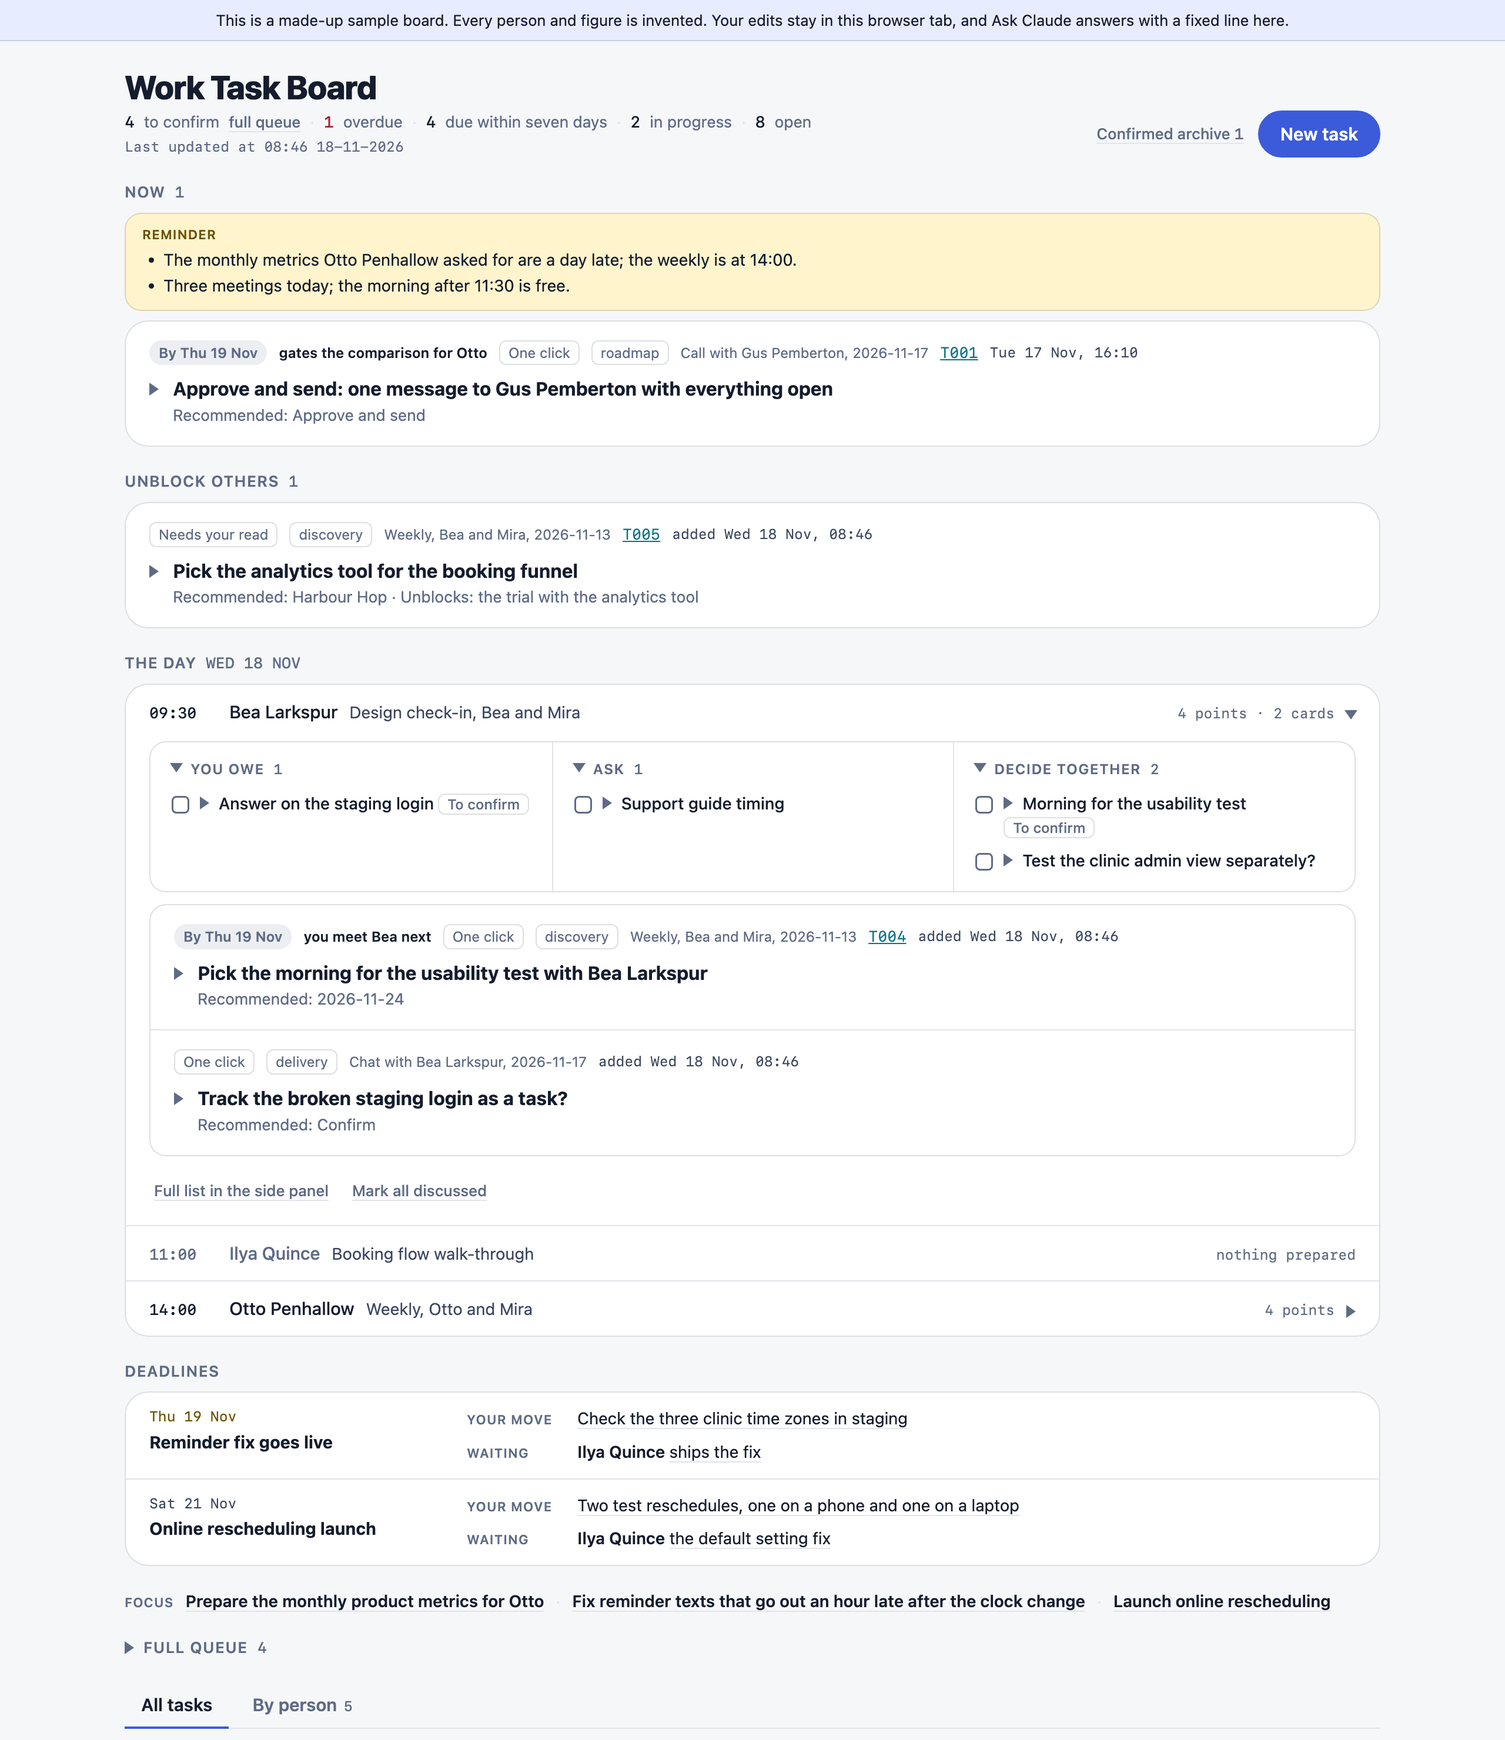
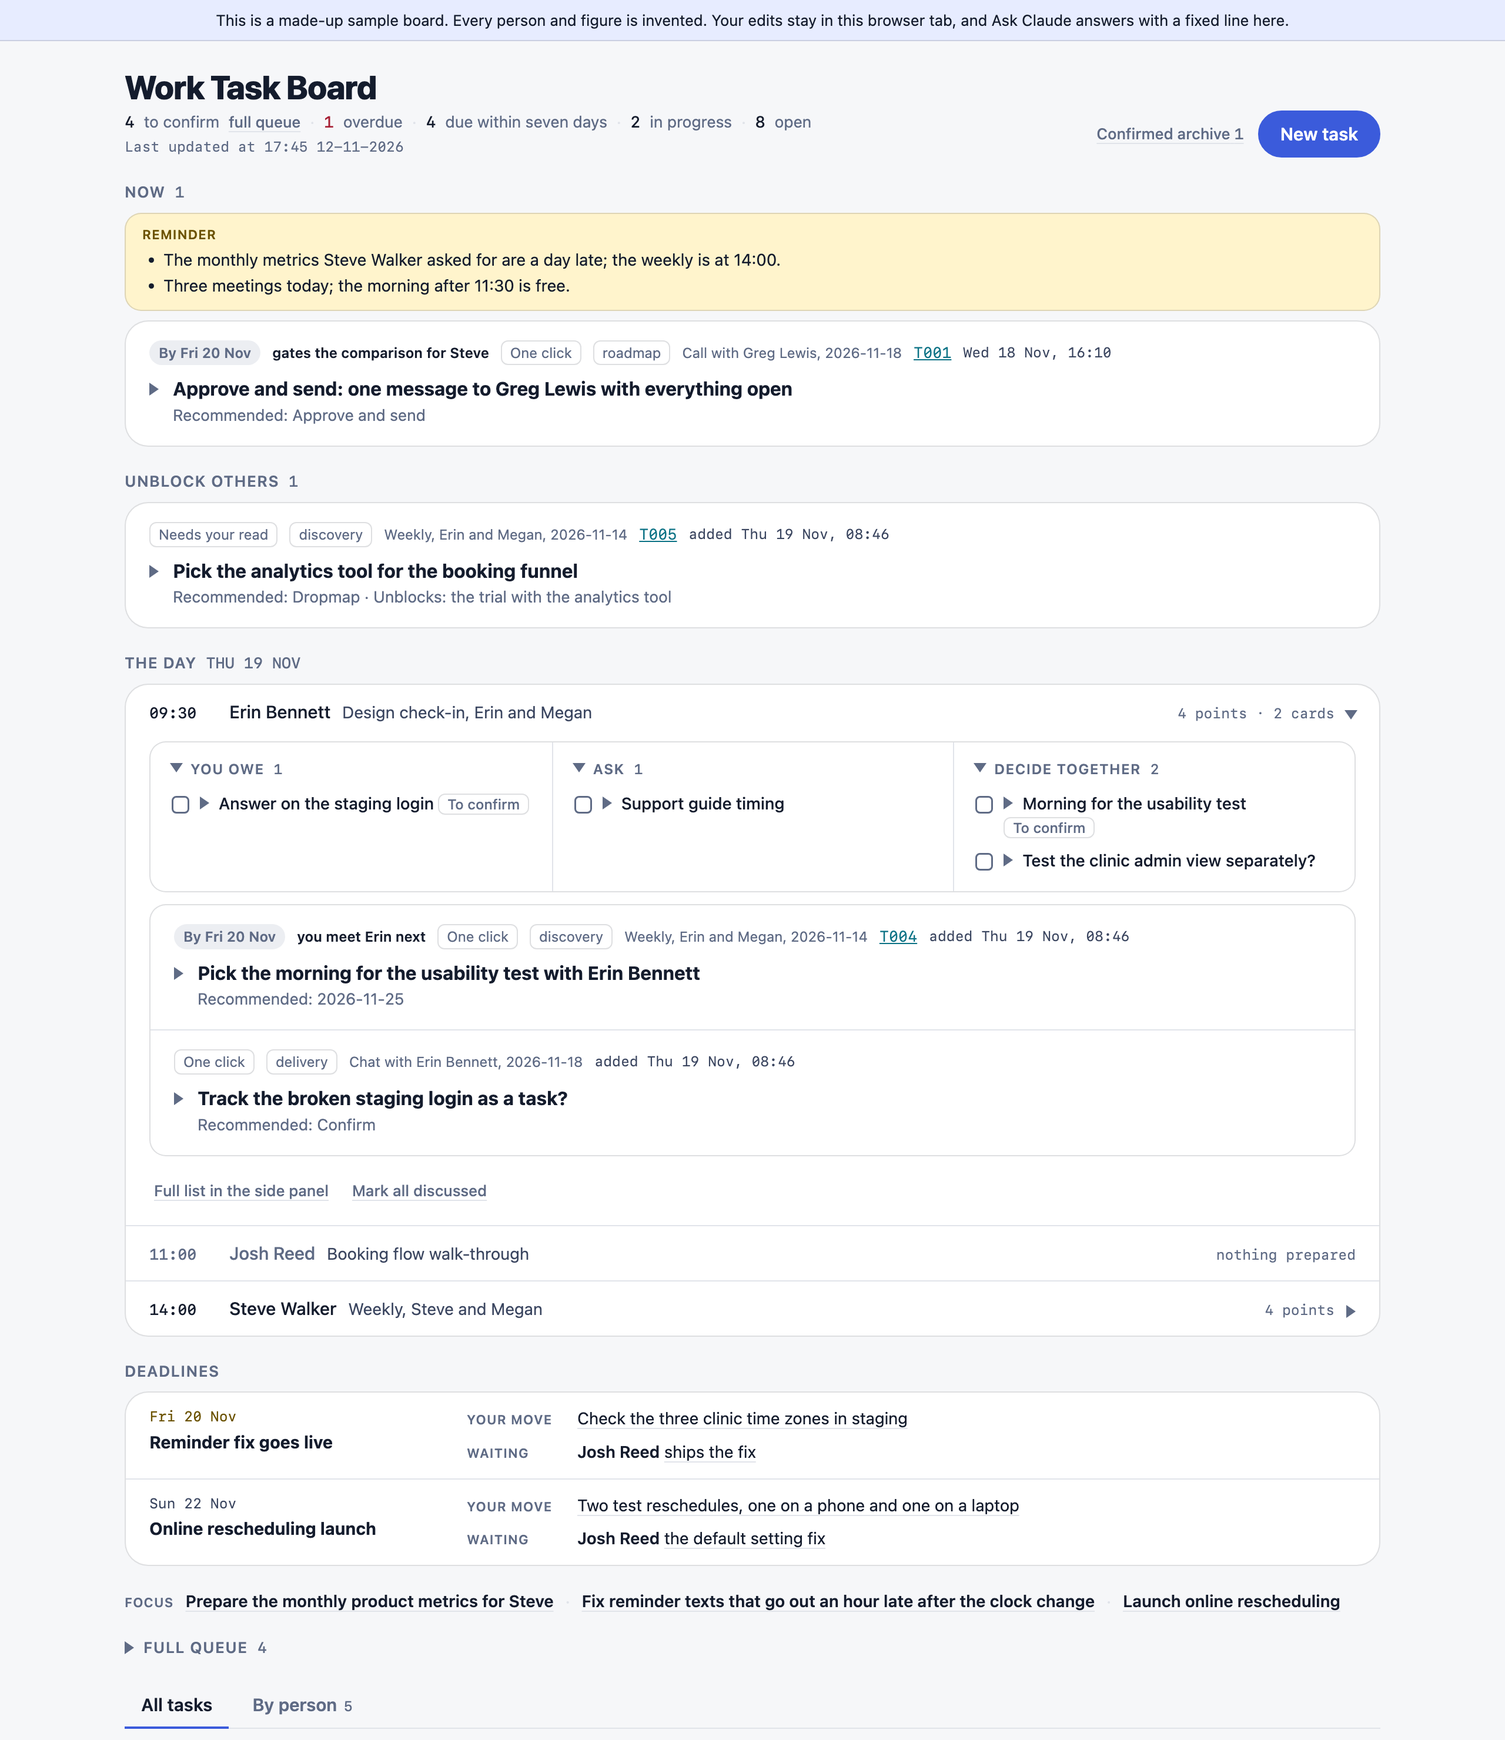
Sample: new names for the people and the tools

diff --git a/tools/preview.py b/tools/preview.py
@@ -120,7 +120,7 @@ if __name__ == "__main__":
             built_for = json.loads((data / "state" / "brief-today.json").read_text())["date"]
         else:
             copy_sample(data)
-        owner = "Mira Tallow"   # the invented owner of the sample
+        owner = "Megan Clark"   # the invented owner of the sample
     elif (KIT / "board.config.json").exists():
         data = KIT
     else:

diff --git a/sample/tasks.md b/sample/tasks.md
@@ -6,13 +6,13 @@
 
 | ID | Title | Status | Priority | Category | Due | Notes | Opened | Last changed | Closed |
 |----|-------|--------|----------|----------|-----|-------|--------|--------------|--------|
-| T001 | Choose the SMS provider for appointment reminders | In Review | High | roadmap | 2026-03-12 | RACI: A. POC: Gus Pemberton. With: Gus Pemberton (waiting); Otto Penhallow (owe). 2026-03-09 call with Gus Pemberton: Tinfold offered 0.041 per message for a two-year term or 0.045 for one year, both with free setup of the sender name. Otto Penhallow owes the sign-off limit before he signs. Next: Mira sends Otto the one-page comparison by 2026-03-11. Open: whether the two-year term allows a price review after twelve months. /  / Earlier evidence retained: 2026-03-02 weekly with Otto Penhallow ([[2026-03-02_weekly-otto-mira]]): the current provider's contract ends on 2026-03-31, and Otto asked for at least two quotes; a second provider is quoting. /  / 2026-02-24 email from Gus Pemberton: first offer at 0.046 per message, valid for thirty days. | 2026-02-24 | 2026-03-09 | |
-| T002 | Launch online rescheduling | In Progress | Critical | delivery | 2026-03-13 | RACI: R, A. POC: Ilya Quince. With: Ilya Quince (waiting). 2026-03-09 chat with Ilya Quince: the reschedule screen is built and the clinic settings page is done; the default setting for new clinics still has rescheduling switched off. Next: Ilya fixes the default and Mira tests one reschedule on a phone and one on a laptop. Risk: the clinic support guide is ready on 2026-03-12, one day before launch. /  / Earlier evidence retained: 2026-03-04 planning note: six pilot clinics, 240 patients in the first batch, launch on 2026-03-13 with the release email to clinics. | 2026-02-17 | 2026-03-09 | |
-| T003 | Fix reminder texts that go out an hour late after the clock change | In Progress | High | delivery | 2026-03-11 | RACI: A. POC: Ilya Quince. 2026-03-09 report from clinics through support, forwarded by Bea Larkspur: three clinics saw reminders arrive an hour late for appointments after the clock change, about 3 missed appointments per clinic a week. Ilya Quince found the cause: the reminder job uses a fixed time offset that ignores the clock change. Next: Ilya ships the fix and Mira checks the three clinic time zones in staging. /  / Earlier evidence retained: 2026-03-06 first report from support, one clinic. | 2026-03-06 | 2026-03-09 | |
-| T004 | Run the usability test of the new booking flow with Bea | Not started | Medium | discovery | 2026-03-20 | RACI: A. POC: Bea Larkspur. With: Bea Larkspur (discuss). 2026-03-05 weekly with Bea Larkspur ([[2026-03-05_weekly-bea-mira]]): the test needs half a day with staging frozen; Bea prefers a morning. Open: which morning, and whether the clinic admin view is tested separately. | 2026-03-05 | 2026-03-05 | |
-| T005 | Choose the analytics tool for the booking funnel | Planning | Medium | discovery | | RACI: R. 2026-03-06 note: the current tool shows only total bookings, with no drop-off per step. Three tools were named in the weekly: Gullwing, Harbour Hop and Skerry. Next: compare price, setup time and what each tracks. | 2026-03-06 | 2026-03-06 | |
-| T006 | Get the corrected churn export from the data team | Pending others | Low | discovery | 2026-03-16 | RACI: I. POC: Noor Fennimore. With: Noor Fennimore (waiting). 2026-03-03 mail from Noor Fennimore: the churn export lists 6,200 accounts, the dashboard says 5,700. Noor asked the data team for a corrected export. Waiting on: the data team's reply. | 2026-03-03 | 2026-03-03 | |
-| T007 | Rewrite the spec for the onboarding checklist | Postponed | Low | roadmap | 2026-04-07 | RACI: R. 2026-03-02 decision by Mira: parked until online rescheduling is out; the restart date is the due date. /  / Earlier evidence retained: 2026-02-20 draft of the new wording is in `drafts/onboarding-checklist.md`. | 2026-02-20 | 2026-03-02 | |
+| T001 | Choose the SMS provider for appointment reminders | In Review | High | roadmap | 2026-03-12 | RACI: A. POC: Greg Lewis. With: Greg Lewis (waiting); Steve Walker (owe). 2026-03-09 call with Greg Lewis: Remindwell offered 0.041 per message for a two-year term or 0.045 for one year, both with free setup of the sender name. Steve Walker owes the sign-off limit before he signs. Next: Megan sends Steve the one-page comparison by 2026-03-11. Open: whether the two-year term allows a price review after twelve months. /  / Earlier evidence retained: 2026-03-02 weekly with Steve Walker ([[2026-03-02_weekly-steve-megan]]): the current provider's contract ends on 2026-03-31, and Steve asked for at least two quotes; a second provider is quoting. /  / 2026-02-24 email from Greg Lewis: first offer at 0.046 per message, valid for thirty days. | 2026-02-24 | 2026-03-09 | |
+| T002 | Launch online rescheduling | In Progress | Critical | delivery | 2026-03-13 | RACI: R, A. POC: Josh Reed. With: Josh Reed (waiting). 2026-03-09 chat with Josh Reed: the reschedule screen is built and the clinic settings page is done; the default setting for new clinics still has rescheduling switched off. Next: Josh fixes the default and Megan tests one reschedule on a phone and one on a laptop. Risk: the clinic support guide is ready on 2026-03-12, one day before launch. /  / Earlier evidence retained: 2026-03-04 planning note: six pilot clinics, 240 patients in the first batch, launch on 2026-03-13 with the release email to clinics. | 2026-02-17 | 2026-03-09 | |
+| T003 | Fix reminder texts that go out an hour late after the clock change | In Progress | High | delivery | 2026-03-11 | RACI: A. POC: Josh Reed. 2026-03-09 report from clinics through support, forwarded by Erin Bennett: three clinics saw reminders arrive an hour late for appointments after the clock change, about 3 missed appointments per clinic a week. Josh Reed found the cause: the reminder job uses a fixed time offset that ignores the clock change. Next: Josh ships the fix and Megan checks the three clinic time zones in staging. /  / Earlier evidence retained: 2026-03-06 first report from support, one clinic. | 2026-03-06 | 2026-03-09 | |
+| T004 | Run the usability test of the new booking flow with Erin | Not started | Medium | discovery | 2026-03-20 | RACI: A. POC: Erin Bennett. With: Erin Bennett (discuss). 2026-03-05 weekly with Erin Bennett ([[2026-03-05_weekly-erin-megan]]): the test needs half a day with staging frozen; Erin prefers a morning. Open: which morning, and whether the clinic admin view is tested separately. | 2026-03-05 | 2026-03-05 | |
+| T005 | Choose the analytics tool for the booking funnel | Planning | Medium | discovery | | RACI: R. 2026-03-06 note: the current tool shows only total bookings, with no drop-off per step. Three tools were named in the weekly: Stagecount, Dropmap and Lumenstat. Next: compare price, setup time and what each tracks. | 2026-03-06 | 2026-03-06 | |
+| T006 | Get the corrected churn export from the data team | Pending others | Low | discovery | 2026-03-16 | RACI: I. POC: Karen Brooks. With: Karen Brooks (waiting). 2026-03-03 mail from Karen Brooks: the churn export lists 6,200 accounts, the dashboard says 5,700. Karen asked the data team for a corrected export. Waiting on: the data team's reply. | 2026-03-03 | 2026-03-03 | |
+| T007 | Rewrite the spec for the onboarding checklist | Postponed | Low | roadmap | 2026-04-07 | RACI: R. 2026-03-02 decision by Megan: parked until online rescheduling is out; the restart date is the due date. /  / Earlier evidence retained: 2026-02-20 draft of the new wording is in `drafts/onboarding-checklist.md`. | 2026-02-20 | 2026-03-02 | |
 | T008 | Move the release notes to an in-app changelog | Done | Medium | delivery | 2026-03-06 | RACI: R. 2026-03-06 done: 46 release notes moved, the first changelog entry tested, the old notes page closed. /  / Earlier evidence retained: 2026-02-27 export of the old notes finished. | 2026-02-10 | 2026-03-06 | 2026-03-06 |
-| T009 | Build a tablet app | Abandoned | Low | roadmap | | RACI: C. 2026-03-03 decision by Otto Penhallow: no tablet app this year; revisit next January. | 2026-02-12 | 2026-03-03 | 2026-03-03 |
-| T010 | Prepare the monthly product metrics for Otto | Not started | High | general | 2026-03-09 | RACI: R. POC: Otto Penhallow. With: Otto Penhallow (owe). 2026-03-02 weekly with Otto Penhallow ([[2026-03-02_weekly-otto-mira]]): Otto wants activation, retention and no-show rate for February on one page before the next weekly. Next: pull the three figures from the analytics export. | 2026-03-02 | 2026-03-02 | |
+| T009 | Build a tablet app | Abandoned | Low | roadmap | | RACI: C. 2026-03-03 decision by Steve Walker: no tablet app this year; revisit next January. | 2026-02-12 | 2026-03-03 | 2026-03-03 |
+| T010 | Prepare the monthly product metrics for Steve | Not started | High | general | 2026-03-09 | RACI: R. POC: Steve Walker. With: Steve Walker (owe). 2026-03-02 weekly with Steve Walker ([[2026-03-02_weekly-steve-megan]]): Steve wants activation, retention and no-show rate for February on one page before the next weekly. Next: pull the three figures from the analytics export. | 2026-03-02 | 2026-03-02 | |

diff --git a/docs/formats.md b/docs/formats.md
@@ -31,7 +31,7 @@ A cell holds no pipe character and no line break. `python3 board/sync_tasks.py c
 Example:
 
 ```
-| T004 | Run the usability test of the new booking flow with Bea | Not started | Medium | discovery | 2026-03-20 | RACI: A. POC: Bea Larkspur. With: Bea Larkspur (discuss). 2026-03-05 weekly with Bea Larkspur ([[2026-03-05_weekly-bea-mira]]): the test needs half a day with staging frozen; Bea prefers a morning. Open: which morning, and whether the clinic admin view is tested separately. | 2026-03-05 | 2026-03-05 | |
+| T004 | Run the usability test of the new booking flow with Erin | Not started | Medium | discovery | 2026-03-20 | RACI: A. POC: Erin Bennett. With: Erin Bennett (discuss). 2026-03-05 weekly with Erin Bennett ([[2026-03-05_weekly-erin-megan]]): the test needs half a day with staging frozen; Erin prefers a morning. Open: which morning, and whether the clinic admin view is tested separately. | 2026-03-05 | 2026-03-05 | |
 ```
 
 ## Summary file (`summaries/<ID>.json`)
@@ -44,7 +44,7 @@ What the side panel shows above the updates log. Claude writes it from the task'
 | `description` | What the task is and what done looks like. Under 45 words. Editable on the page. |
 | `decision.date` | `YYYY-MM-DD`. |
 | `decision.kind` | `decision` for a real decision or agreed commitment, `update` when the notes hold none. |
-| `decision.source` | A plain label: "Weekly with Bea Larkspur". |
+| `decision.source` | A plain label: "Weekly with Erin Bennett". |
 | `decision.text` | One or two sentences. |
 | `decision.url` | An https link, `meeting:<note file name without .md>`, or empty. |
 | `details` | Two to six one-sentence bullets, each starting with `Next:`, `Open:`, `Waiting on:`, `People:`, `Scope:`, `Numbers:`, `Risk:` or `Background:`. |
@@ -55,9 +55,9 @@ Example:
 ```json
 {
  "id": "T004",
- "description": "Run the usability test of the new booking flow with Bea Larkspur. Done means the findings are in the research sheet and the top three problems have owners.",
- "decision": {"date": "2026-03-05", "kind": "decision", "source": "Weekly with Bea Larkspur", "text": "The test happens on a morning with staging frozen.", "url": "meeting:2026-03-05_weekly-bea-mira"},
- "details": ["Open: which morning, and whether the clinic admin view is tested separately.", "People: Bea Larkspur runs the test; Mira freezes staging."],
+ "description": "Run the usability test of the new booking flow with Erin Bennett. Done means the findings are in the research sheet and the top three problems have owners.",
+ "decision": {"date": "2026-03-05", "kind": "decision", "source": "Weekly with Erin Bennett", "text": "The test happens on a morning with staging frozen.", "url": "meeting:2026-03-05_weekly-erin-megan"},
+ "details": ["Open: which morning, and whether the clinic admin view is tested separately.", "People: Erin Bennett runs the test; Megan freezes staging."],
  "notesHash": "set by stamp"
 }
 ```
@@ -76,7 +76,7 @@ One prepared decision. The file name is the `id`.
 | `lane` | A category, shown as a tag. |
 | `relatedTask` | A task ID or empty. |
 | `origin` | `meeting`, `email` or `chat`. |
-| `meeting` | A plain source label with the date: "Chat with Bea Larkspur, 2026-03-09". |
+| `meeting` | A plain source label with the date: "Chat with Erin Bennett, 2026-03-09". |
 | `sourceUrl` | An https link to the source, or empty. |
 | `sourceAt` | When the source happened, UTC ISO time. Optional. |
 | `context` | One or two sentences placing the item in its day. Optional. |
@@ -113,10 +113,10 @@ Example (the plain form; `sample/state/confirm-queue/` has one card for each of 
 {
  "id": "staging-login-repair-2026-03-10",
  "title": "Track the broken staging login as a task?",
- "question": "Bea Larkspur wrote on 2026-03-09 that the staging login fails for her test account, which blocks her usability test. Nobody was named to fix it and no date was set.",
- "recommendation": "Add it as a Low priority delivery task with Bea as point of contact. Confirm adds the row; Drop it leaves it in the chat.",
+ "question": "Erin Bennett wrote on 2026-03-09 that the staging login fails for her test account, which blocks her usability test. Nobody was named to fix it and no date was set.",
+ "recommendation": "Add it as a Low priority delivery task with Erin as point of contact. Confirm adds the row; Drop it leaves it in the chat.",
  "recAction": "add", "lane": "delivery", "relatedTask": "", "origin": "chat",
- "meeting": "Chat with Bea Larkspur, 2026-03-09", "sourceUrl": "",
+ "meeting": "Chat with Erin Bennett, 2026-03-09", "sourceUrl": "",
  "urgent": false, "dueBy": "", "priority": 3, "urgencyNote": "",
  "state": "open", "answer": "", "choice": "", "comment": "", "answeredAt": "", "appliedAt": "", "result": "",
  "createdAt": "2026-03-10T07:46:00Z"
@@ -147,25 +147,25 @@ Example:
  "date": "2026-03-10",
  "dayDate": "2026-03-10",
  "generatedAt": "2026-03-10T07:46:00Z",
- "reminders": ["The monthly metrics Otto Penhallow asked for are a day late; the weekly is at 14:00."],
- "note": "The weekly with Otto Penhallow is today at 14:00, and the monthly metrics he asked for are a day late.",
+ "reminders": ["The monthly metrics Steve Walker asked for are a day late; the weekly is at 14:00."],
+ "note": "The weekly with Steve Walker is today at 14:00, and the monthly metrics he asked for are a day late.",
  "top": [
-  {"taskId": "T010", "title": "Prepare the monthly product metrics for Otto",
+  {"taskId": "T010", "title": "Prepare the monthly product metrics for Steve",
    "whyShort": "A day late, weekly at 14:00", "nextShort": "Pull three figures; Claude drafts the page",
-   "why": "Otto Penhallow asked for the page before the weekly, which is today at 14:00, and the due date was 2026-03-09.",
+   "why": "Steve Walker asked for the page before the weekly, which is today at 14:00, and the due date was 2026-03-09.",
    "next": "Pull activation, retention and no-show rate from the analytics export; Claude can draft the page once you paste the three figures."}
  ],
  "people": [
-  {"name": "Bea Larkspur", "meeting": "Design check-in, Bea and Mira", "start": "09:30", "end": "10:00", "when": "today, 09:30",
+  {"name": "Erin Bennett", "meeting": "Design check-in, Erin and Megan", "start": "09:30", "end": "10:00", "when": "today, 09:30",
    "owe": [{"short": "Answer on the staging login", "text": "She reported the broken login on 2026-03-09 and has no reply yet.", "confirm": true}],
    "ask": [],
    "decide": [{"short": "Morning for the usability test", "text": "Three mornings are free on both calendars; the first is 2026-03-16.", "taskId": "T004", "confirm": true}]},
-  {"name": "Ilya Quince", "meeting": "Booking flow walk-through", "start": "11:00", "end": "11:30", "when": "today, 11:00", "owe": [], "ask": [], "decide": []}
+  {"name": "Josh Reed", "meeting": "Booking flow walk-through", "start": "11:00", "end": "11:30", "when": "today, 11:00", "owe": [], "ask": [], "decide": []}
  ],
  "deadlines": [
   {"date": "2026-03-13", "title": "Online rescheduling launch",
    "yours": [{"text": "Two test reschedules, one on a phone and one on a laptop", "taskId": "T002"}],
-   "waiting": [{"who": "Ilya Quince", "text": "the default setting fix", "taskId": "T002"}]}
+   "waiting": [{"who": "Josh Reed", "text": "the default setting fix", "taskId": "T002"}]}
  ]
 }
 ```

diff --git a/sample/meetings/2026-03-02_weekly-steve-megan.md b/sample/meetings/2026-03-02_weekly-steve-megan.md
@@ -1,11 +1,11 @@
 ---
 date: 2026-03-02
-title: Weekly, Otto and Mira
+title: Weekly, Steve and Megan
 type: 1-on-1
-attendees: [otto-penhallow, mira-tallow]
+attendees: [steve-walker, megan-clark]
 ---
 
-# Weekly, Otto and Mira, 2026-03-02
+# Weekly, Steve and Megan, 2026-03-02
 
 Invented sample note.
 
@@ -16,7 +16,7 @@ The SMS provider contract and the monthly product metrics.
 - At least two quotes before an SMS provider is chosen.
 
 ## Confirmed commitments
-- Mira prepares February's activation, retention and no-show rate on one page before the next weekly (T010).
+- Megan prepares February's activation, retention and no-show rate on one page before the next weekly (T010).
 
 ## Proposed tasks
 - None.

diff --git a/sample/meetings/2026-03-05_weekly-erin-megan.md b/sample/meetings/2026-03-05_weekly-erin-megan.md
@@ -1,11 +1,11 @@
 ---
 date: 2026-03-05
-title: Weekly, Bea and Mira
+title: Weekly, Erin and Megan
 type: 1-on-1
-attendees: [bea-larkspur, mira-tallow]
+attendees: [erin-bennett, megan-clark]
 ---
 
-# Weekly, Bea and Mira, 2026-03-05
+# Weekly, Erin and Megan, 2026-03-05
 
 Invented sample note.
 
@@ -16,7 +16,7 @@ The usability test of the booking flow and the analytics tool for the funnel.
 - The test happens on a morning with staging frozen.
 
 ## Confirmed commitments
-- Mira and Bea pick the morning for the test (T004).
+- Megan and Erin pick the morning for the test (T004).
 
 ## Proposed tasks
 - An analytics tool for the booking funnel (became T005).
